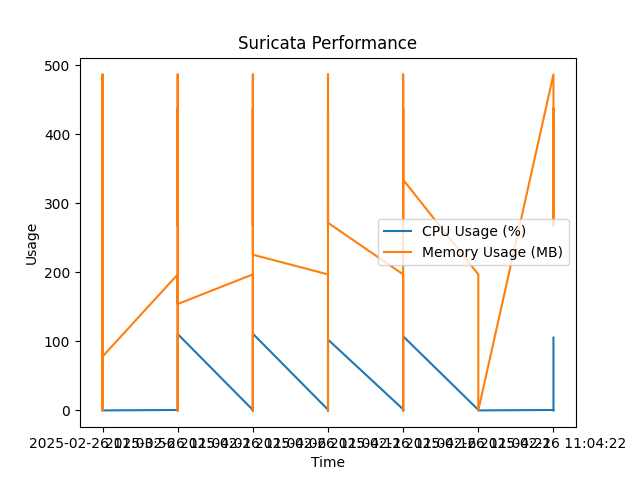
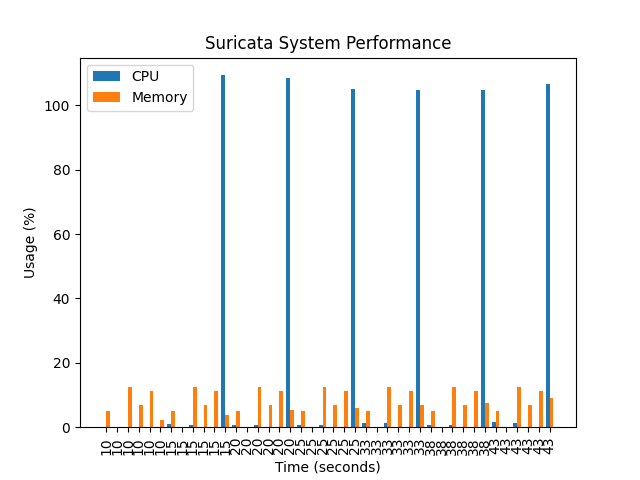
update

diff --git a/python/system_related/suricata/run_suricata.py b/python/system_related/suricata/run_suricata.py
@@ -4,41 +4,47 @@ import subprocess
 import time
 import psutil
 import csv
+import sys
 from threading import Thread
+
+def print_log(message):
+    print(message)
+    sys.stdout.flush()
 
 def log_performance(log_file, process_name,tcp_proc):
     # Logs CPU & memory usage of the IDS process every 5 seconds 
     with open(log_file, "w", newline="") as f:
         # Writes to csv
         writer = csv.writer(f)
-        writer.writerow(["Time", "CPU_Usage (%)", "Memory_Usage (MB)"])  # CSV header
+        writer.writerow(["Time", "CPU_Usage (%)", "Memory_Usage (%)"])  # CSV header
 
         while tcp_proc.poll() is None:
             # Find the process by name
             for proc in psutil.process_iter(attrs=["pid", "name", "cpu_percent", "memory_info"]):
                 if process_name in proc.info["name"].lower():
                     cpu_usage = proc.info["cpu_percent"]
-                    mem_usage = proc.info["memory_info"].rss / (1024 * 1024)  # Convert to MB
-
+                    rss_mem = proc.info["memory_info"].rss # procent
+                    # Get the total system memory (in bytes)
+                    tot_mem = psutil.virtual_memory().total
+                    memory_percentage = (rss_mem / tot_mem) * 100
                     # Log the data
-                    writer.writerow([time.strftime("%Y-%m-%d %H:%M:%S"), cpu_usage, mem_usage])
+                    writer.writerow([time.strftime("%Y-%m-%d %H:%M:%S"), cpu_usage, memory_percentage])
                     f.flush()  # Ensure immediate write
-                    # Print data to console
                     #print(f"Time: {time.strftime('%Y-%m-%d %H:%M:%S')}, CPU: {cpu_usage}%, Memory: {mem_usage}MB")
             time.sleep(5)  # Log every 5 seconds
-    print("Logging complete")
+    print_log("Logging complete")
 
 def main(loop, speed):
     filepath = "python/system_related/suricata/logs/ids_performance_log.csv"
     # Start Suricata as subprocess
-    print("Starting suricata...")
+    print_log("Starting suricata...")
     time.sleep(1)
     temp = open("python/system_related/suricata/tmp/temp_suricata.log", "w")
     err = open("python/system_related/suricata/tmp/err_suricata.log", "w")
     suricata_proc = subprocess.Popen(["sudo", "suricata", "-i", "lo"], stdout=temp, stderr=err)  
     time.sleep(2)
     # Start tcp replay
-    print("Starting tcp replay...")
+    print_log("Starting tcp replay...")
     time.sleep(1)
     temp = open("python/system_related/suricata/tmp/temp_tcpreplay.log", "w")
     err = open("python/system_related/suricata/tmp/err_tcpreplay.log", "w")
@@ -48,20 +54,20 @@ def main(loop, speed):
     monitor_thread.start()
     time.sleep(1)
     # Wait for Suricata to exit (if manually stopped)
-    print("Wait for TCP replay to finish")
+    print_log("Wait for TCP replay to finish")
     tcpreplay_proc.wait()
     
     time.sleep(2)
-    print("Wait for suricata to finish")
+    print_log("Wait for suricata to finish")
     suricata_proc.wait()
     time.sleep(1)
-    print("Termating suricata..")
+    print_log("Termating suricata..")
     suricata_proc.terminate()
     
     # End / join thread
-    print("Terminating monitor thread")
+    print_log("Terminating monitor thread")
     monitor_thread.join()
 
 
 
-main(100,100)
+main(100,100000)

diff --git a/python/system_related/vis_csv.py b/python/system_related/vis_csv.py
@@ -1,22 +1,31 @@
 import pandas as pd
+import numpy as np
 import matplotlib.pyplot as plt
 def main(ids_performance_log, ids_name):
     df = pd.read_csv("python/system_related/suricata/logs/ids_performance_log.csv")
     print(df)
 
     # Extract the time, CPU usage, and memory usage columns
-
+    # extarct seconds part of time "2025-02-26 12:39:22"
+    df["Time"] = df["Time"].apply(lambda x: x.split(":")[-1])
     time = df["Time"]
+    print(time)
     cpu_usage = df["CPU_Usage (%)"]
-    mem_usage = df["Memory_Usage (MB)"]
+    mem_usage = df["Memory_Usage (%)"]
+    indices = np.arange(len(time))
+    bar_width = 0.35
+    # Plot CPU usage bars
+    plt.bar(indices - bar_width / 2, cpu_usage, width=bar_width, label="CPU")
 
-    plt.plot(time,cpu_usage, label="CPU Usage (%)")
-    plt.plot(time,mem_usage, label="Memory Usage (MB)")
-    plt.xlabel("Time")
-    plt.ylabel("Usage")
+    # Plot memory usage bars
+    plt.bar(indices + bar_width / 2, mem_usage, width=bar_width, label="Memory")
+    plt.xlabel("Time (seconds)")
+    plt.ylabel("Usage (%)")
+    plt.xticks(indices, time, rotation=90)
     plt.title(f"{ids_name} System Performance")
     plt.legend()
-    # save img as png
+    # Save image
+    print("Save image as png")
     plt.savefig(f"python/system_related/suricata/logs/{ids_name}_performance.png")
 
 
